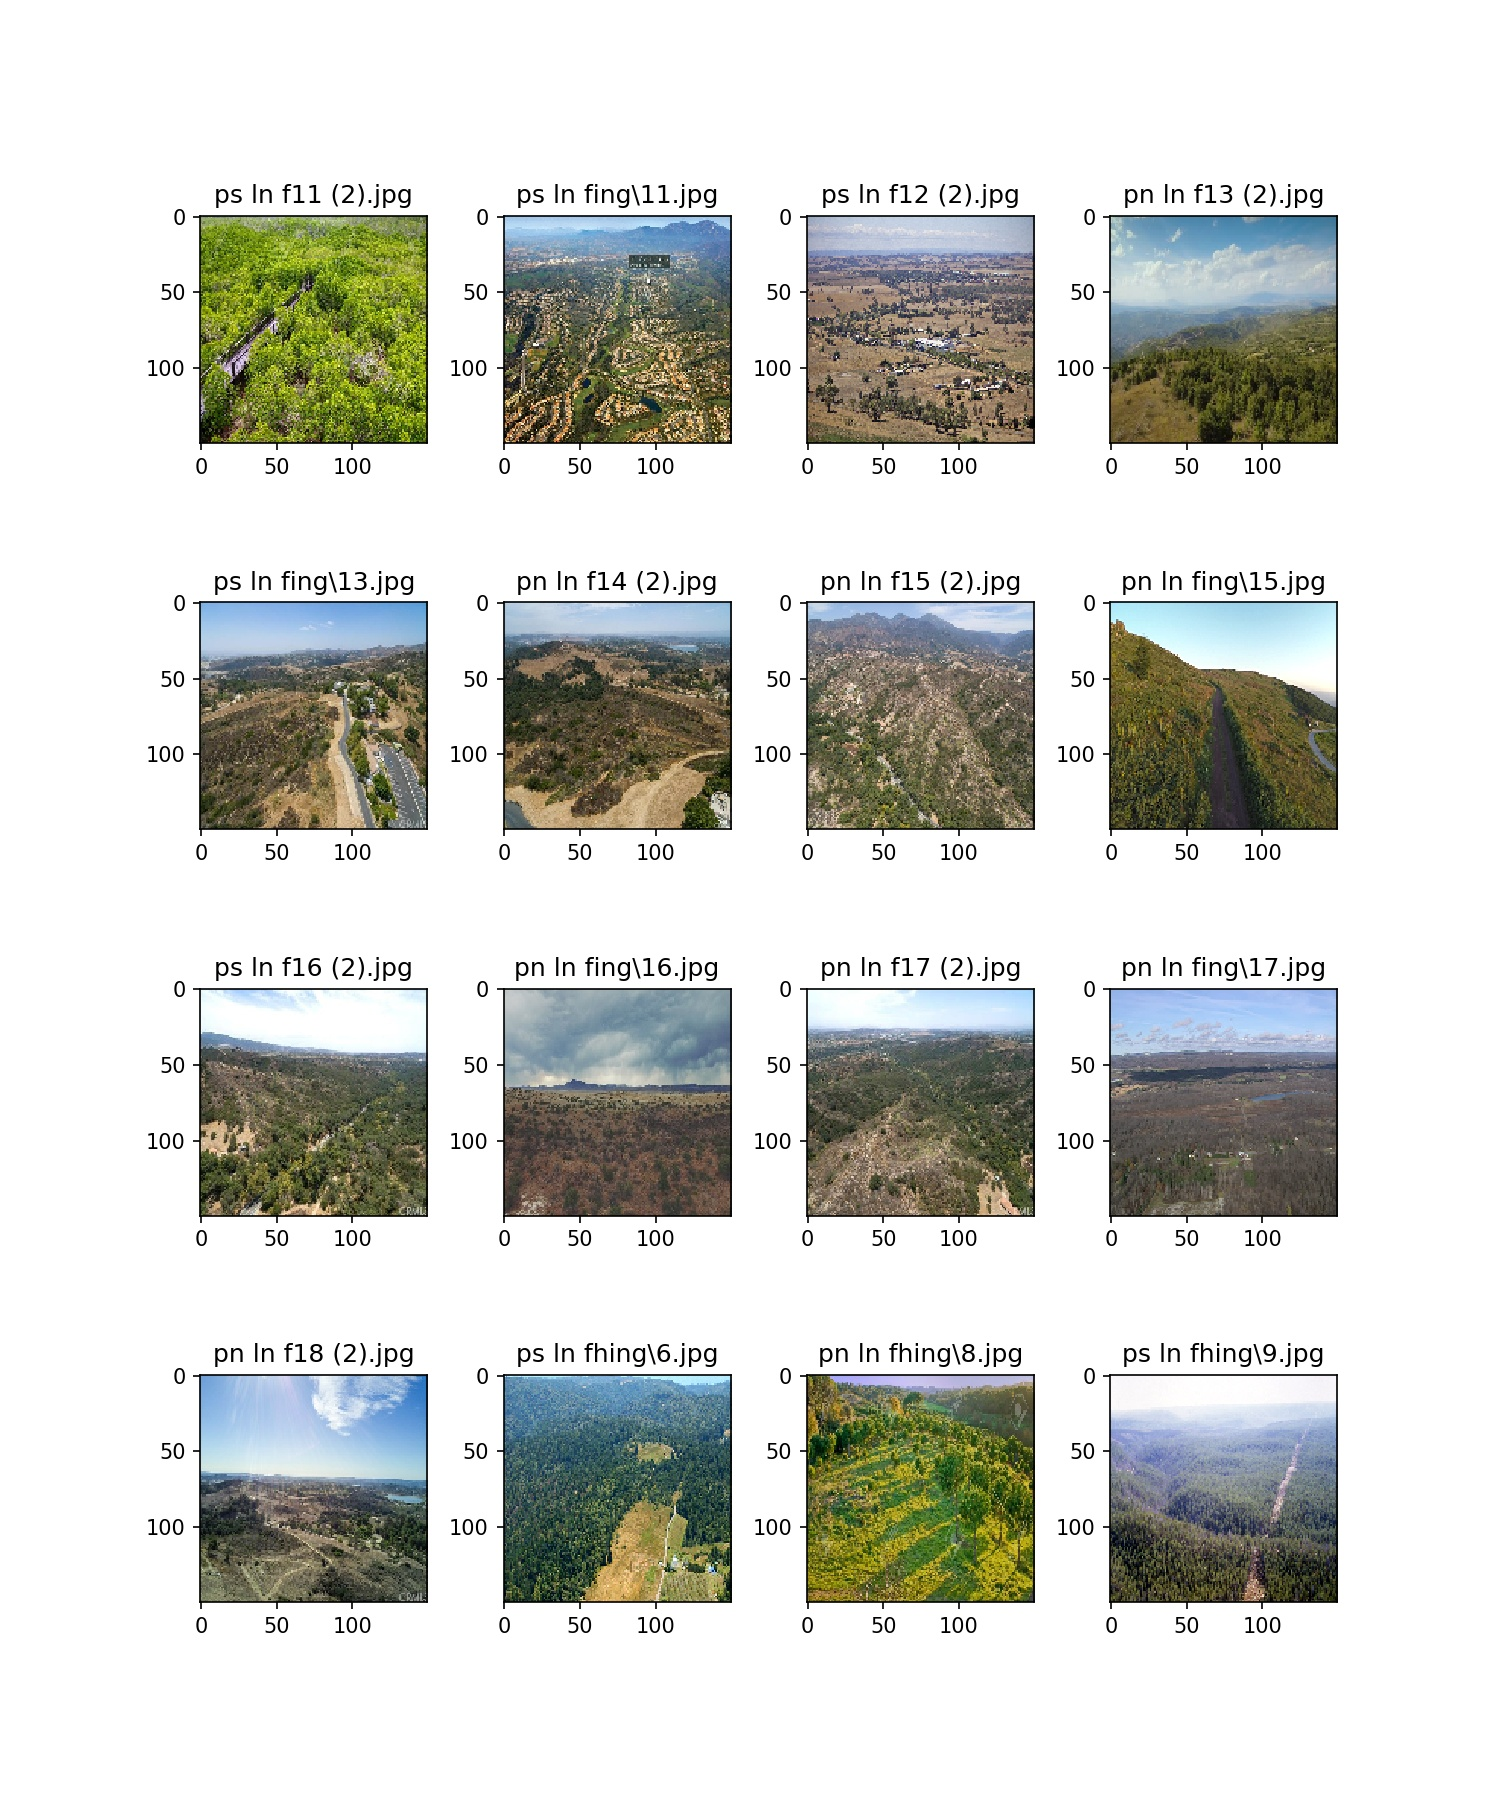
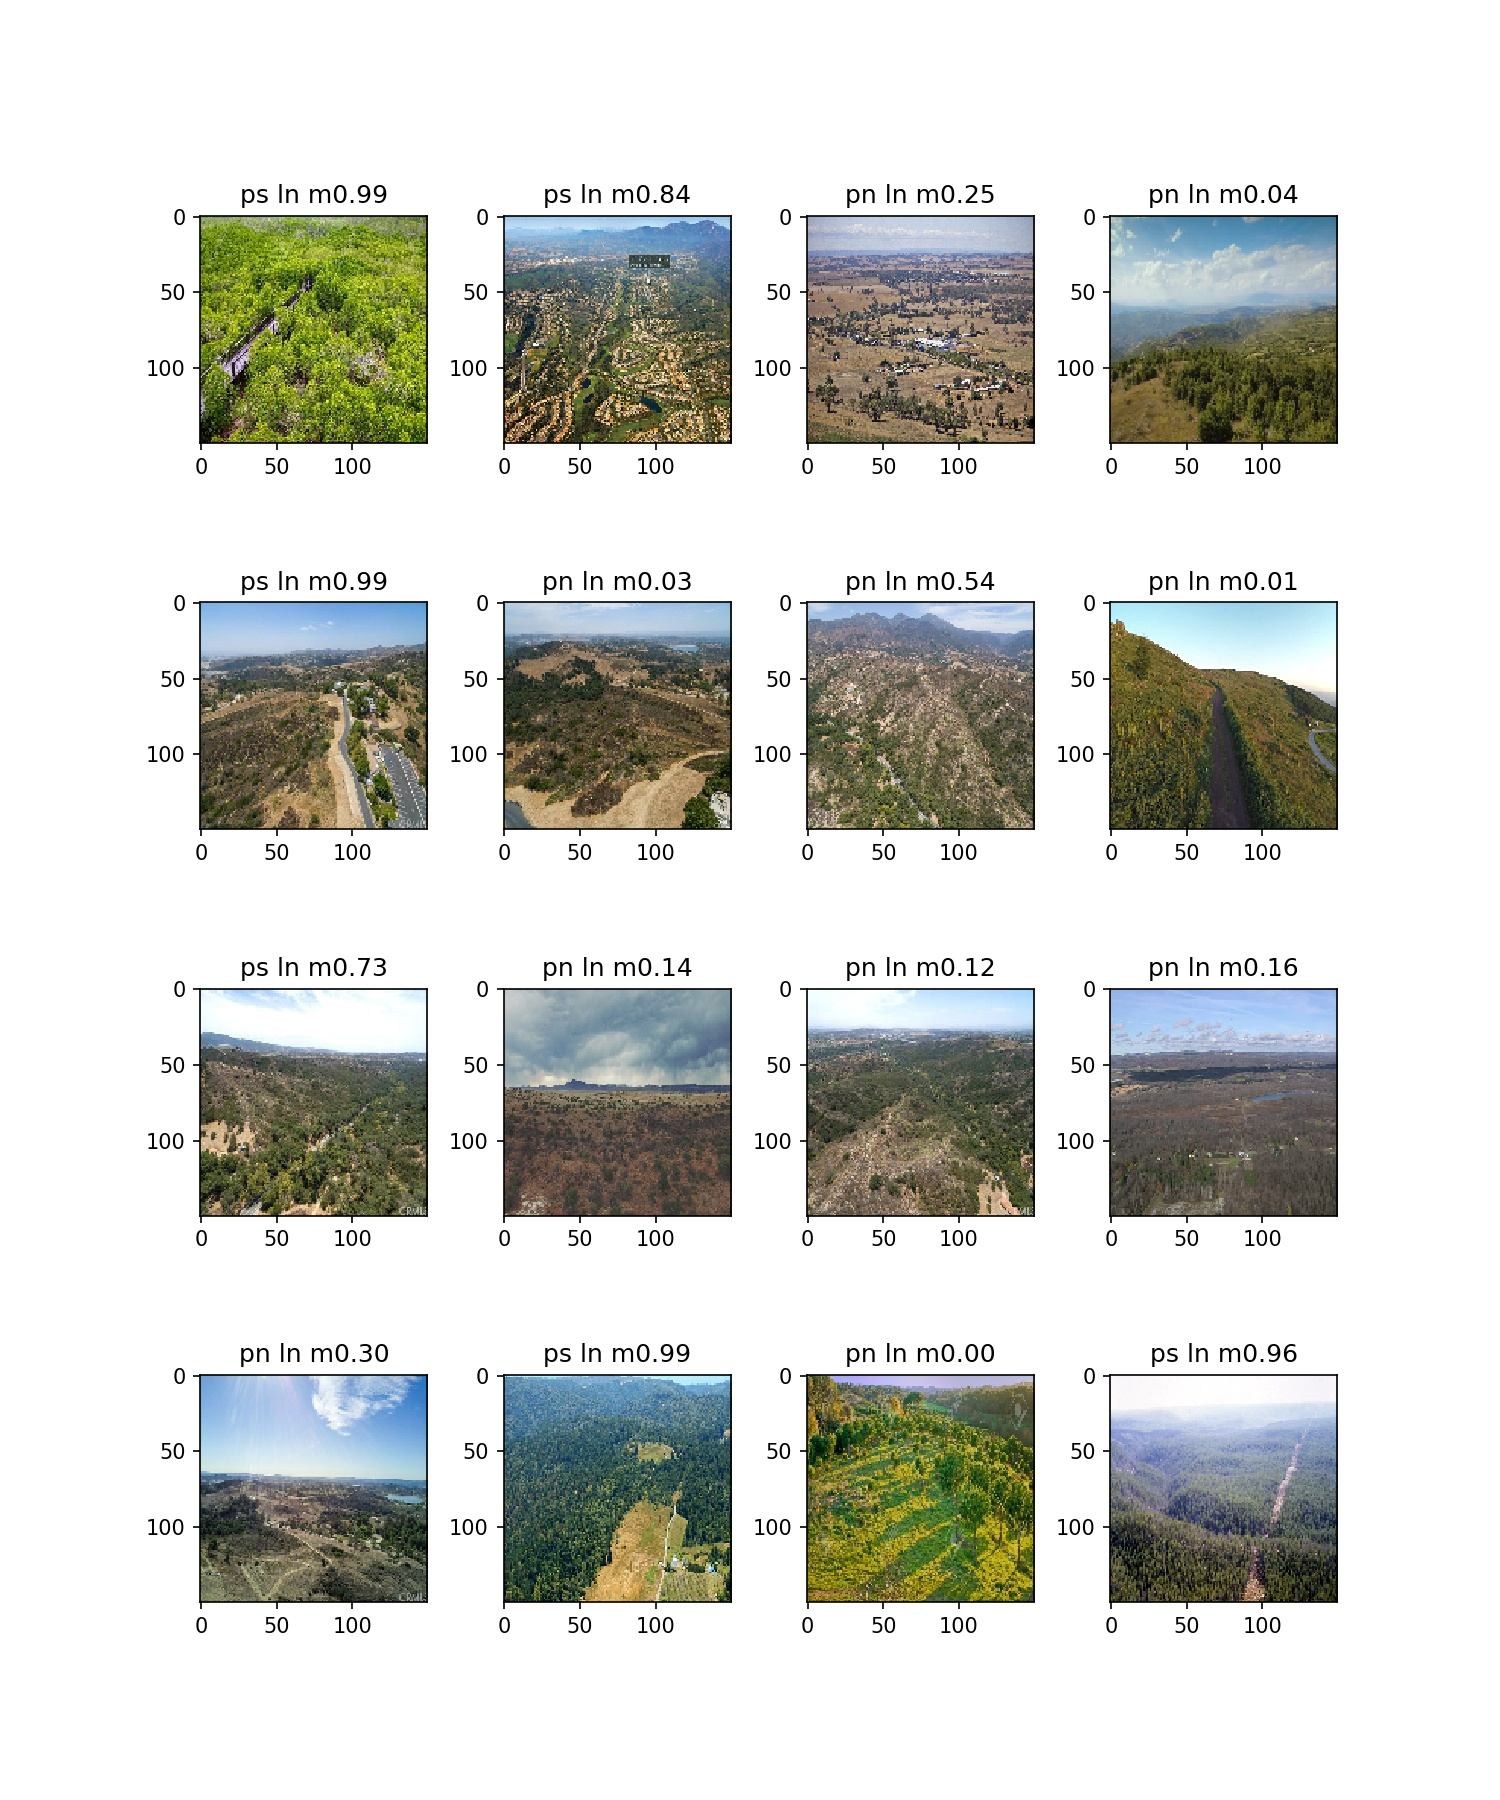
Added the display of the percentage of membership in the fire detection class.  Test images updated with these latest results.

diff --git a/fire_vgg16.py b/fire_vgg16.py
@@ -33,10 +33,9 @@ from keras.applications import VGG16
 from keras.preprocessing.image import ImageDataGenerator
 from keras.preprocessing import image
 
+detection_threshold = .60
+
 def test_network(base_network, class_network, directory, sample_count):
-    predicted_label_names = []
-    actual_label_names = []
-    file_names = []
     batch_size = 10
 
     datagen = ImageDataGenerator(rescale=1./255)    
@@ -48,7 +47,7 @@ def test_network(base_network, class_network, directory, sample_count):
         class_mode='binary')    
     # Retrieve a list of all known class indexes.
     known_label_indices = (generator.class_indices)
-    # Exchange the numeric indexs with textual lables in a dictionary.
+    # Exchange the numeric indexes with textual lables in a dictionary.
     known_label_names = dict((v,k) for k,v in known_label_indices.items())        
     # Obtain the files names of each generated image and display the image
     # along with the name of the associated classification.
@@ -57,6 +56,9 @@ def test_network(base_network, class_network, directory, sample_count):
     file_names = [os.path.join(directory, file_name) for file_name in file_names]
 
     # Process each batch of images provided by the generator through the specified network.
+    predicted_label_names = []
+    predicted_label_percent = []
+    actual_label_names = []
     i = 0
     for inputs_batch, labels_batch in generator:
         # Now transform the lables for all of the images into lable names.
@@ -70,14 +72,17 @@ def test_network(base_network, class_network, directory, sample_count):
         # as input to the densely connected class network.
         features_batch = np.reshape(features_batch, (batch_size, 4 * 4 * 512))
 
-        # Save the generated features, labels, label names, and file names.        
+        # Save the generated features: label percents, label names, actual label names, and file names. 
+        # Use the specified threshold to select the predicted class.
         predicted_labels_batch = class_network.predict(features_batch)
-        predicted_labels_int = np.rint(predicted_labels_batch)
+        predicted_label_percent[i * batch_size : (i + 1) * batch_size] = predicted_labels_batch        
+        predicted_labels_int = [1 if label_percent >= detection_threshold else 0 for label_percent in predicted_labels_batch]
+
         label_names = []
         for label_index in range(len(predicted_labels_int)):
-            label_name_index = predicted_labels_int[label_index].item()
+            label_name_index = predicted_labels_int[label_index]
             label_names.append(known_label_names[label_name_index])
-        
+        # Accumulate each batch of prediction names to return values to the caller.        
         predicted_label_names[i * batch_size : (i + 1) * batch_size] = label_names        
 
         # Do not allow the total number of processed images to exceed the total number of
@@ -88,7 +93,7 @@ def test_network(base_network, class_network, directory, sample_count):
         else:
             print(f"Test data count:{i * batch_size}, directory:{directory}")
 
-    return predicted_label_names, actual_label_names, file_names        
+    return predicted_label_names, predicted_label_percent, actual_label_names, file_names        
 
 def extract_features(network, directory, sample_count):
     features = np.zeros(shape=(sample_count, 4, 4, 512))
@@ -147,7 +152,7 @@ def display_training_result(training_history):
 def print_help():
     pass
 
-def display_image_predictions(predictions, label_names, file_names):
+def display_image_predictions(predictions, membership, label_names, file_names):
     columns = 4
     rows = 4
     pages = 4
@@ -163,9 +168,10 @@ def display_image_predictions(predictions, label_names, file_names):
         for i in range(columns * rows):
             image_index = page_num * columns * rows + i
             img = image.load_img(file_names[image_index], target_size=(150, 150))
-            # create subplot and append to ax
+            # create subplot and append to axis
             subplot = fig.add_subplot(rows, columns, i + 1)
-            subplot.set_title("p" + predictions[image_index][0] + " l" + label_names[image_index][0] + " f" + file_names[image_index][-10:])  # set title
+            subplot.set_title("p" + predictions[image_index][0] + " l" + label_names[image_index][0] + " m" + str(membership[image_index][0])[0:4])  # set title
+                # + " f" + file_names[image_index][-10:]            
             subplot.imshow(img)       
 
             # Stop displaying subplots if there are no additional images.
@@ -223,10 +229,10 @@ def main():
 
     # Apply the pretrained base network and the densely connected classifier to
     # the images in the test directory.
-    predicted_label_names, actual_label_names, file_names = test_network(network, model, test_dir, 40)
+    predicted_label_names, predicted_label_percent, actual_label_names, file_names = test_network(network, model, test_dir, 40)
 
     # Now display the predictions and the associated images in the test data.
-    display_image_predictions(predicted_label_names, actual_label_names, file_names)
+    display_image_predictions(predicted_label_names, predicted_label_percent, actual_label_names, file_names)
 
 if __name__== "__main__":
   main()
